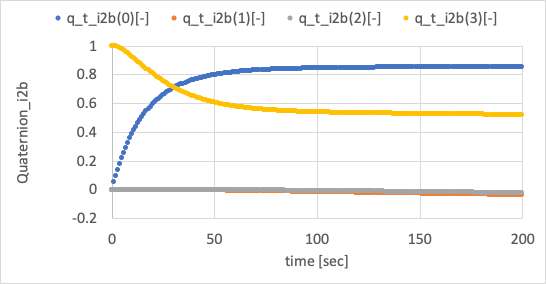
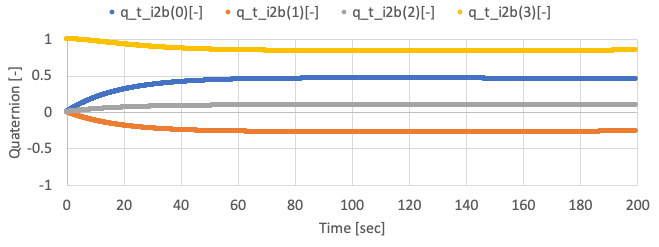
Modify Direct control method

diff --git a/Tutorials/SampleCodes/ControlAlgorithm/DirectMethod/User_sat_with_control.cpp b/Tutorials/SampleCodes/ControlAlgorithm/DirectMethod/User_sat_with_control.cpp
@@ -20,6 +20,11 @@ void UserSat::LogSetup(Logger & logger)
 
 void UserSat::Update(const SimTime* sim_time)
 {
+  // Update Dynamics
+  Spacecraft::Update(sim_time);
+  // clear force and torques
+  Clear();
+  
   // Sensing
   Vector<3> observed_omega_b = dynamics_->GetAttitude().GetOmega_b();
   
@@ -32,7 +37,4 @@ void UserSat::Update(const SimTime* sim_time)
   // Generate force and torque
   dynamics_->AddTorque_b(control_torque_b);
   dynamics_->AddForce_b(control_force_b);
-
-  // Update Dynamics
-  Spacecraft::Update(sim_time);
 }

diff --git a/Tutorials/SampleCodes/ControlAlgorithm/DirectMethod/User_sat_with_control.h b/Tutorials/SampleCodes/ControlAlgorithm/DirectMethod/User_sat_with_control.h
@@ -10,11 +10,8 @@ public:
   UserSat(SimulationConfig* sim_config, const GlobalEnvironment* glo_env, const int sat_id);
   ~UserSat();
 
-  // 初期化
   virtual void Initialize(void);
-  // ログ保存機能
   virtual void LogSetup(Logger& logger);
-  // 状態量の更新
   virtual void Update(const SimTime* sim_time);
 
 private:

diff --git a/Tutorials/HowToAddControlAlgorithms.md b/Tutorials/HowToAddControlAlgorithms.md
@@ -1,38 +1,37 @@
 # How To Add Control Algorithms
 
 ## 1.  Overview
-- In the [How To Make New Components](./Tutorials/HowToMakeNewComponents.md) tutorial, we have newly made components emulating codes in [S2E_CORE_OSS](https://gitlab.com/ut_issl/s2e/s2e_core_oss) and add the new components into our own simulation scenario.
+- In the [How To Make New Components](./Tutorials/HowToMakeNewComponents.md) tutorial, we have newly made components emulating codes in [S2E_CORE_OSS](https://gitlab.com/ut_issl/s2e/s2e_core_oss) and adding the new components into our simulation scenario.
 - Now we can simulate the behavior of spacecraft **free motion** and emulate the behavior of sensors and actuators. 
 - This tutorial explains how to add a **Control Algorithm** into the simulation scenario. 
-- For practical satellite project, we should implement the control algorithm as real flight software like [C2A](https://gitlab.com/ut_issl/c2a/c2a_core_oss) into the S2E. However, usually, using real flight software is overdoing for use cases as research, the initial phase of satellite projects.
+- For a practical satellite project, we should implement the control algorithm as actual flight software like [C2A](https://gitlab.com/ut_issl/c2a/c2a_core_oss) into the S2E. However, using actual flight software is usually overdoing for use cases as research, the initial phase of satellite projects.
 - So, we introduce the following three methods, and users can choose a suitable method.
   - Direct: Directly control physical quantity without sensors, actuators, and their noises
-    - For theoretical researches and preliminary analysis for satellite projects.
+    - For theoretical researches and preliminary analysis for satellite projects
   - Component: Control using sensors and actuators without flight S/W framework
-    - For engineering researches and preliminary analysis for satellite projects. 
+    - For engineering researches and preliminary analysis for satellite projects
   - FlightSW: Control using sensors and actuators with flight S/W framework
-    - For actual satellite projects.
-- Supported version of this document
-  - S2E_CORE_OSS:c4c7cf6567c077f0918f07a9a82c2d7e4531ceb7
-  - Documents_OSS:80af890e5615fbc0f2b49d591118bd46f14a40c8
+    - For actual satellite projects
+- The Supported version of this document
+  - S2E_CORE_OSS: [c3ba](https://gitlab.com/ut_issl/s2e/s2e_core_oss/-/commit/c3ba6d93418998b91efc0a8ca57ff63e350d2636)
 
 ## 2. Direct method
-- In this chapter, the simplest way to add a control algorithm without sensors and actuators is introduced.
-- This method directly measures satellite physical quantity, and directly generate torque and force acting on the satellite.
+- This chapter introduces the simplest way to add a control algorithm without sensors and actuators.
+- This method directly measures the satellite's physical quantity and generates torque and force acting on the satellite.
 - To do that, users need to edit the `Update` function in the `UserSat.cpp`.
-- The `UserSat` class already has satellite attitude, orbit, and local environment information since it inherits `Spacecraft` base class. So users can easily access these values.
-- To measure physical quantities, users can use getter functions defined in `Attitude`, `Orbit`, and `LocalEnvironment` classes as `dynamics_->GetAttitude().GetOmega_b()`.
+- The `UserSat` class already has satellite attitude, orbit, and local environment information since it inherits the `Spacecraft` base class. So users can easily access these values.
+- To measure physical quantities, users can use getter functions defined in the `Attitude`, `Orbit`, and `LocalEnvironment` classes as `dynamics_->GetAttitude().GetOmega_b()`.
 - To generate torque and force, users can use `dynamics_->AddTorque_b` and `dynamics_->AddForce_b`.
 - The sample codes are in `SampleCodes/ControlAlgorithm/DirectMethod/`, and you can see very simple detumbling with the proportional control method.
-- To use the sample code with initial angular velocity = [0.1,0.0,0.0] rad/s, you need to copy the `User_sat_with_control.cpp` and `User_sat_with_control.h` and build them instead of `User_sat.cpp`.
-  - You need to edit `CMakeLists.txt` to add the copied `User_sat_with_control.cpp` to the `SOURCE_FILES`.
+- To use the sample code with initial angular velocity = [0.05, -0.03, 0.01] rad/s, you need to copy the `User_sat_with_control.cpp` and `User_sat_with_control.h` and build them instead of `User_sat.cpp`.
+  - You need to edit `CMakeLists.txt` to add the copied `User_sat_with_control.cpp` to the `SOURCE_FILES` instead of the `User_sat.cpp`.
 - By using the sample code, the following results are given.
+  
+  <img src="./figs/ControlAlgorithm_DirectControl_result1.png" alt="CA_DC_1" style="zoom: 80%;" />  
 
-   <img src="./figs/ControlAlgorithm_DirectControl_result1.png" alt="CA_DC_1" style="zoom: 80%;" />  
-
-   <img src="./figs/ControlAlgorithm_DirectControl_result2.png" alt="CA_DC_2" style="zoom: 80%;" />  
+  <img src="./figs/ControlAlgorithm_DirectControl_result2.png" alt="CA_DC_2" style="zoom: 80%;" />  
    
-   <img src="./figs/ControlAlgorithm_DirectControl_result3.png" alt="CA_DC_3" style="zoom: 80%;" />  
+  <img src="./figs/ControlAlgorithm_DirectControl_result3.png" alt="CA_DC_3" style="zoom: 80%;" />  
 
 ## 3. Component method
 - In this chapter, a method to add control algorithm using sensors and actuators is introduced.
@@ -52,5 +51,5 @@
     <img src="./figs/ControlAlgorithm_ComponentControl_result2.png" alt="CA_CC_2" style="zoom: 80%;" />  
     <img src="./figs/ControlAlgorithm_ComponentControl_result3.png" alt="CA_CC_3" style="zoom: 80%;" />  
 
-## 4. FlightSW method ~Control algorithm within C2A~
+## 4. FlightSW method: Control algorithm within C2A
 - TBW
